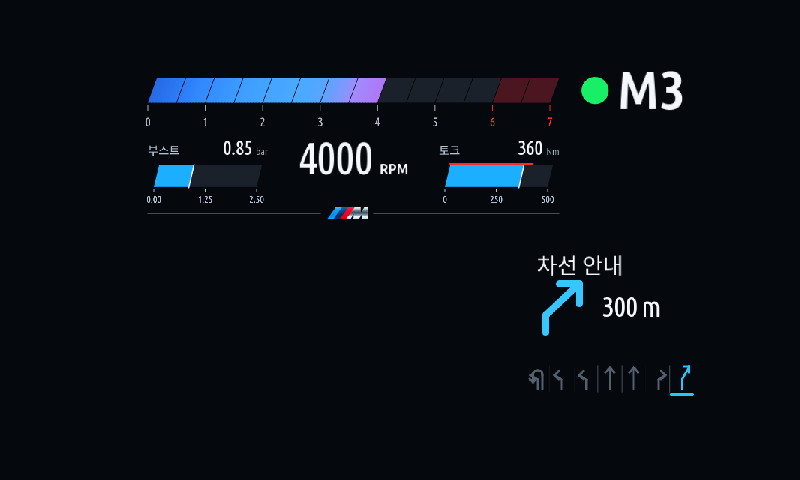
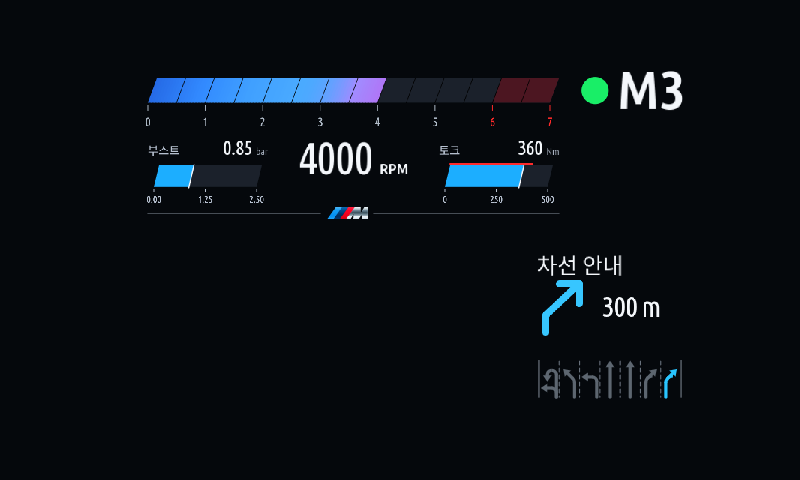
Release Cluster Redline 1.2.4: crisp fixed-size HUD lane guidance
Redraw HUD lane guidance like stock lane boards: fixed-size lanes with
dashed dividers and solid outer edges, arrows with filled heads made of
straight lines, single-pass arcs and triangles. Arrow size no longer
depends on the lane count; a U-turn sharing a lane with the same-side
turn is drawn above it.

Paint the lane row directly at its HUD size (drawSized) instead of
resampling the 240x72 tile with nearest-neighbour, which dropped pixel
rows/columns and broke thin strokes. Lane data, colours, freshness and
positions are unchanged. Refresh the two HUD lane screenshots.

Validation: new lane-draw-sized test (fails on 1.2.3 lane drawing),
lane-render, render-optimization, blit-scaled and the Store package test
pass against the built 1.2.4 package; 3000 random lane sets at 20-200%
scale. The 4 suites that already fail in this environment are unchanged.
Real-vehicle HUD check pending.

Claude-Session: https://claude.ai/code/session_01LR6i2TaKByy8pUNu1Vx1YG

Changed region(s): [[0.6562, 0.75, 0.875, 0.8438]]

diff --git a/apps/cluster_redline/lane-draw.js b/apps/cluster_redline/lane-draw.js
@@ -1,28 +1,79 @@
 'use strict';
 const {Canvas}=require('./kit/canvas');
-const W=240,H=72;
-function arrow(cv,d,cx,color){
- const left=/LEFT/.test(d),right=/RIGHT/.test(d),sign=left?-1:1;
- const line=p=>cv.polyline(p,3,color);
- if(d==='STRAIGHT_ON'){line([[cx,49],[cx,18]]);line([[cx-6,25],[cx,18],[cx+6,25]]);}
- else if(/UTURN/.test(d)){const u=left?1:-1,pts=[[cx+u*7,49],[cx+u*7,29]];for(let i=1;i<=12;i++){const a=-Math.PI*i/12;pts.push([cx+u*7*Math.cos(a),29+7*Math.sin(a)]);}pts.push([cx-u*7,39]);line(pts);line([[cx-u*7-5,34],[cx-u*7,40],[cx-u*7+5,34]]);}
- else if(left||right){
-  const slight=/SLIGHT/.test(d),endY=slight?17:29;
-  line([[cx,49],[cx,35],[cx+sign*10,endY]]);
-  line(slight?[[cx+sign*3,endY],[cx+sign*10,endY],[cx+sign*10,endY+8]]:[[cx+sign*4,endY-6],[cx+sign*10,endY],[cx+sign*4,endY+6]]);
- }
+// HUD lane guidance in the style of stock lane boards: fixed-size lanes with
+// dashed dividers, solid outer edges and arrows with filled heads. Glyphs never
+// shrink when more lanes are shown, and drawSized() paints directly at the HUD
+// pixel size so the image is not resampled (resampling broke thin strokes).
+// Arrows use only straight lines, single-pass arcs and filled triangles; a
+// many-segment polyline blends its overlapping joints and looks jagged.
+const W=240,H=72,CELL=29,BOTTOM=60,TOP=8,SW=4.6,HB=12.5,HL=9.5,PAD=2;
+const DIM='#5d6670',OTHER='#3f4750',LINE='#68717c';
+const D2R=Math.PI/180;
+const dir=a=>[Math.sin(a*D2R),-Math.cos(a*D2R)];        // heading, degrees clockwise from up
+// Arrow geometry in local units: trunk at x=0, lane base at y=BOTTOM.
+// paired: this lane also has the U-turn and 90-degree turn to the same side;
+// the turn bends lower and the U-turn tail is shorter so both stay readable.
+function glyph(d,paired){
+ const parts=[];let x=0,y=BOTTOM,heading=0;
+ const straight=len=>{const v=dir(heading),nx=x+v[0]*len,ny=y+v[1]*len;parts.push({t:'line',a:[x,y],b:[nx,ny]});x=nx;y=ny;};
+ const turn=(deg,r)=>{                                  // deg>0 clockwise, centre-line radius r
+  const s=Math.sign(deg),v=dir(heading+s*90),cx=x+v[0]*r,cy=y+v[1]*r,from=heading-s*90,to=from+deg;
+  parts.push({t:'arc',c:[cx,cy],r,a0:Math.min(from,to),a1:Math.max(from,to)});
+  const p=dir(to);x=cx+p[0]*r;y=cy+p[1]*r;heading+=deg;
+ };
+ const head=()=>{const v=dir(heading),n=[-v[1],v[0]],tip=[x+v[0]*HL,y+v[1]*HL];parts.push({t:'tri',p:[[x+n[0]*HB/2,y+n[1]*HB/2],[x-n[0]*HB/2,y-n[1]*HB/2],tip]});};
+ const s=/LEFT/.test(d)?-1:1;
+ if(d==='STRAIGHT_ON'){straight(BOTTOM-TOP-HL);}
+ else if(/^SLIGHT_/.test(d)){straight(20);turn(s*45,10);straight(9);}
+ else if(/^HARD_/.test(d)){straight(22);turn(s*135,6.5);straight(5);}
+ else if(/^UTURN_/.test(d)){straight(32);turn(s*180,6.5);straight(paired?0.5:4);}
+ else if(d==='LEFT'||d==='RIGHT'){straight(paired?6:22);turn(s*90,7);straight(6);}
+ else return null;
+ head();return parts;
 }
-function draw(state){
- const cv=new Canvas(W,H);cv.clear([0,0,0,0]);
+function bounds(parts){
+ let lo=Infinity,hi=-Infinity;const add=(px,pad)=>{lo=Math.min(lo,px-pad);hi=Math.max(hi,px+pad);};
+ parts.forEach(p=>{
+  if(p.t==='line'){add(p.a[0],SW/2);add(p.b[0],SW/2);}
+  else if(p.t==='tri')p.p.forEach(q=>add(q[0],0.5));
+  else for(let a=p.a0;a<=p.a1;a+=5)add(p.c[0]+Math.sin(a*D2R)*p.r,SW/2);
+ });return [lo,hi];
+}
+function paint(cv,parts,map,k,width,color){
+ parts.forEach(p=>{
+  if(p.t==='line'){const a=map(p.a),b=map(p.b);cv.line(a[0],a[1],b[0],b[1],width*k,color);}
+  else if(p.t==='tri')cv.triangle(p.p.map(map),color);
+  else{const c=map(p.c),r=p.r*k,hw=width*k/2;
+   // Split arcs that cross 12 o'clock so a0<a1 stays within one turn.
+   const spans=p.a0<0?[[p.a0+360,360],[0,p.a1]]:p.a1>360?[[p.a0,360],[0,p.a1-360]]:[[p.a0,p.a1]];
+   spans.forEach(s=>{if(s[1]>s[0])cv.arc(c[0],c[1],r-hw,r+hw,s[0],s[1],color);});}
+ });
+}
+function drawSized(state,w,h){
+ const s=(w||W)/W,cv=new Canvas(Math.max(1,Math.round(w||W)),Math.max(1,Math.round(h||H*s)));cv.clear([0,0,0,0]);
  if(!state||!state.visible||!Array.isArray(state.lanes)||!state.lanes.length)return cv;
- const cell=W/state.lanes.length,selected=state.color==='gray'?'#929aa3':state.color==='white'?'#f2f4f8':'#29c5ff';
- state.lanes.forEach((lane,i)=>{
-  const x=Math.round(cell*(i+0.5));
-  if(lane.highlighted)cv.polyline([[cell*i+2,57],[cell*(i+1)-2,57]],4,selected);
-  if(i)cv.polyline([[cell*i,16],[cell*i,54]],1,'#4c5664');
-  lane.other.forEach(d=>arrow(cv,d,x,'#55606e'));
-  lane.directions.forEach(d=>arrow(cv,d,x,lane.highlighted?selected:'#75808e'));
-  if(lane.blocked){cv.polyline([[x-6,27],[x+6,43]],3,'#75808e');cv.polyline([[x+6,27],[x-6,43]],3,'#75808e');}
- });return cv;
+ const lanes=state.lanes.slice(0,Math.floor(W/CELL)),n=lanes.length,left=(W-CELL*n)/2;
+ const selected=state.color==='gray'?'#a3abb4':state.color==='white'?'#f2f4f8':'#29c5ff';
+ const vline=(x,y0,y1,width)=>cv.line(x*s,y0*s,x*s,y1*s,width*s,LINE);
+ // Solid outer edges, dashed lane dividers.
+ vline(left,TOP,BOTTOM,1.8);vline(left+CELL*n,TOP,BOTTOM,1.8);
+ for(let i=1;i<n;i++)for(let y=TOP+1;y<BOTTOM;y+=10)vline(left+CELL*i,y,Math.min(BOTTOM,y+5),1.6);
+ lanes.forEach((lane,i)=>{
+  const cx=left+CELL*(i+0.5),on=lane.highlighted;
+  const list=lane.other.map(d=>({d,color:OTHER})).concat(lane.directions.map(d=>({d,color:on?selected:DIM})));
+  const all=lane.directions.concat(lane.other),side=d=>(d.match(/LEFT|RIGHT/)||[''])[0],paired=d=>(d==='LEFT'||d==='RIGHT'||/^UTURN_/.test(d))&&all.includes(side(d))&&all.includes('UTURN_'+side(d));
+  const shapes=list.map(e=>Object.assign(e,{parts:glyph(e.d,paired(e.d))})).filter(e=>e.parts);
+  if(shapes.length){
+   // One transform per lane: centre the combined glyph; shrink only a lane whose
+   // combined directions are wider than its cell, never because of the lane count.
+   let lo=0,hi=0;shapes.forEach(e=>{const b=bounds(e.parts);lo=Math.min(lo,b[0]);hi=Math.max(hi,b[1]);});
+   const k=Math.min(1,(CELL-2*PAD)/(hi-lo)),x0=cx-(lo+hi)/2*k;
+   const map=p=>[(x0+p[0]*k)*s,(BOTTOM+(p[1]-BOTTOM)*k)*s];
+   shapes.forEach(e=>paint(cv,e.parts,map,k*s,SW,e.color));
+  }
+  if(lane.blocked){const r=6,y=(TOP+BOTTOM)/2;cv.line((cx-r)*s,(y-r)*s,(cx+r)*s,(y+r)*s,3.4*s,DIM);cv.line((cx+r)*s,(y-r)*s,(cx-r)*s,(y+r)*s,3.4*s,DIM);}
+ });
+ return cv;
 }
-module.exports={W,H,draw};
+function draw(state){return drawSized(state,W,H);}
+module.exports={W,H,draw,drawSized};

diff --git a/tests/cluster_redline/lane-draw-sized.test.js b/tests/cluster_redline/lane-draw-sized.test.js
@@ -1,0 +1,17 @@
+'use strict';
+// HUD lanes are painted at their final size and keep one arrow size for any lane count.
+const assert=require('assert'),path=require('path'),root=path.join(path.resolve(process.argv[2]),'source/javascript');
+const LANE=require(root+'/lane-draw'),D=require(root+'/display-config'),{settings}=require('../../apps/cluster_redline/policy');
+const lane=(d,hl)=>({directions:[d],other:[],highlighted:!!hl,blocked:false});
+for(const scale of [20,70,100,200]){
+ const r=D.navRect(settings({hudLanesScale:scale}),'Lanes'),im=LANE.drawSized({visible:true,lanes:[lane('STRAIGHT_ON',true)],color:'blue'},r.w,r.h);
+ assert.strictEqual(im.w,r.w);assert.strictEqual(im.h,r.h);
+}
+// Height of the highlighted (blue) straight arrow, measured in the tile.
+function blueHeight(count){
+ const lanes=Array.from({length:count},(_,i)=>lane('STRAIGHT_ON',i===0)),im=LANE.draw({visible:true,lanes,color:'blue'});let top=im.h,bottom=-1;
+ for(let y=0;y<im.h;y++)for(let x=0;x<im.w;x++){const p=(y*im.w+x)*4;if(im.d[p+3]>200&&im.d[p+2]>200&&im.d[p]<120){top=Math.min(top,y);bottom=Math.max(bottom,y);}}
+ return bottom-top;
+}
+const sizes=[1,2,4,8].map(blueHeight);assert(sizes[0]>30,'arrow is drawn');sizes.forEach(h=>assert.strictEqual(h,sizes[0],'arrow size must not depend on the lane count: '+sizes));
+console.log('PASS: lanes paint at the exact HUD rectangle for 20-200% and keep one arrow size for 1-8 lanes');

diff --git a/apps/cluster_redline/hud-compose.js b/apps/cluster_redline/hud-compose.js
@@ -11,7 +11,8 @@ function draw(state) {
     if(state.renderRpm!==false)drawWithParts(face,state,cv,placement(state.config,'hud',face),'hud');
     if(D.navAllowed(state.config,state.mode)&&state.navigation&&state.navigation.visible){
         const hasTurn=state.navigation.maneuverVisible!==false;
-        const paintNav=(id,painter,value)=>{if(cache){const key=require('./render-state').navKey(state,id);if(key)cache.navigation(id,key,painter,value,D.navRect(state.config,id));}else blitScaled(cv,painter.draw(value),D.navRect(state.config,id));};
+        // Painters with drawSized() paint at the final HUD size (1:1 copy, no resampling).
+        const paintNav=(id,base,value)=>{const r=D.navRect(state.config,id),painter=base.drawSized?{W:r.w,H:r.h,draw:v=>base.drawSized(v,r.w,r.h)}:base;if(cache){const key=require('./render-state').navKey(state,id);if(key)cache.navigation(id,key,painter,value,r);}else blitScaled(cv,painter.draw(value),r);};
         if(hasTurn&&!state.config.hudNavHidden)paintNav('Direction',nav,Object.assign({},state.navigation,{color:state.config.navColor}));
         if(!state.config.hudLanesHidden&&state.navigation.lanes&&state.navigation.lanes.visible){
             paintNav('Lanes',lanes,Object.assign({},state.navigation.lanes,{color:state.config.navColor}));

diff --git a/README.ko.md b/README.ko.md
@@ -1,6 +1,6 @@
 # iDrive 7 Jam Apps · 한국어
 
-**계기판 레드라인 1.2.3** · HUD/클러스터 두 디자인, 좌우 부가정보·M 개별 조절, 배터리·평균연비와 길안내. **아이드라이브 회로 1.0.0**, **저장공간 1.0.1**도 함께 제공합니다.
+**계기판 레드라인 1.2.4** · HUD/클러스터 두 디자인, 좌우 부가정보·M 개별 조절, 배터리·평균연비와 길안내. **아이드라이브 회로 1.0.0**, **저장공간 1.0.1**도 함께 제공합니다.
 
 [English](README.md)
 
@@ -11,7 +11,7 @@
 | 저장공간 사용 | [저장공간](apps/storage/README.ko.md) | [Storage](apps/storage/README.md) |
 | Circuit 사용 | [회로 퍼즐](apps/idrive_circuit/README.ko.md) | [Circuit](apps/idrive_circuit/README.md) |
 
-MGU Store에서 소스 **`jaimeen77-cmyk/apps`**, 브랜치 **`main`**을 추가하고 새로고침한 뒤 한국어 또는 English판을 설치하세요. 레드라인은 `cluster-render` **0.4.0 이상**이 필요합니다. 기존 설치는 Installed에서 업데이트하고 앱 상단 **v1.2.3**을 확인하세요. 한국어·영어판을 함께 설치했다면 사용하지 않는 판의 앱 실행과 자동 시작을 끕니다.
+MGU Store에서 소스 **`jaimeen77-cmyk/apps`**, 브랜치 **`main`**을 추가하고 새로고침한 뒤 한국어 또는 English판을 설치하세요. 레드라인은 `cluster-render` **0.4.0 이상**이 필요합니다. 기존 설치는 Installed에서 업데이트하고 앱 상단 **v1.2.4**을 확인하세요. 한국어·영어판을 함께 설치했다면 사용하지 않는 판의 앱 실행과 자동 시작을 끕니다.
 
 | HUD circle | HUD bar |
 |---|---|

diff --git a/README.md b/README.md
@@ -1,6 +1,6 @@
 # iDrive 7 Jam Apps
 
-**Cluster Redline 1.2.3** adds separate side metrics/M controls, two cluster/HUD designs, battery/economy readings and combined navigation. **iDrive Circuit 1.0.0** and **Storage 1.0.1** are also available.
+**Cluster Redline 1.2.4** adds separate side metrics/M controls, two cluster/HUD designs, battery/economy readings and combined navigation. **iDrive Circuit 1.0.0** and **Storage 1.0.1** are also available.
 
 [한국어](README.ko.md)
 
@@ -11,7 +11,7 @@
 | Use Storage | [Storage](apps/storage/README.md) | [저장공간](apps/storage/README.ko.md) |
 | Use Circuit | [Circuit](apps/idrive_circuit/README.md) | [회로 퍼즐](apps/idrive_circuit/README.ko.md) |
 
-Add MGU Store source **`jaimeen77-cmyk/apps`**, branch **`main`**, refresh and choose Korean or English. Redline requires **`cluster-render` 0.4.0+**. Update existing installs in Installed and check **v1.2.3** in the app. Stop and disable auto-start in an unused language edition if both are installed.
+Add MGU Store source **`jaimeen77-cmyk/apps`**, branch **`main`**, refresh and choose Korean or English. Redline requires **`cluster-render` 0.4.0+**. Update existing installs in Installed and check **v1.2.4** in the app. Stop and disable auto-start in an unused language edition if both are installed.
 
 | HUD circle | HUD bar |
 |---|---|

diff --git a/CHANGELOG.md b/CHANGELOG.md
@@ -13,6 +13,11 @@ Version history is kept here. For current usage, see [Cluster Redline](docs/CLUS
 
 ## Cluster Redline
 
+### 1.2.4
+
+- Redraw HUD lane guidance in the style of stock lane boards: fixed-size lanes with dashed dividers and solid outer edges, and arrows with filled heads built from straight lines, single-pass arcs and triangles. Arrow size no longer shrinks as the lane count grows; only a lane whose combined directions are too wide is narrowed. A U-turn sharing a lane with the same-side turn is drawn above it.
+- Paint the lane row directly at its HUD size instead of resampling a 240x72 image to the selected scale, which dropped pixel rows/columns and broke thin strokes. Lane data, recommendation colours, freshness rules and positions are unchanged.
+
 ### 1.2.3
 
 - Speed up scaled component blits used for moved/resized parts and navigation tiles: compute the source column table once per blit and copy opaque or uncovered pixels directly. Output stays bit-identical (new `blit-scaled` regression test); host measurements show about 2x faster translucent and about 7x faster opaque parts. No visual, setting or signal changes.

diff --git a/docs/CLUSTER-REDLINE.ko.md b/docs/CLUSTER-REDLINE.ko.md
@@ -1,4 +1,4 @@
-# 계기판 레드라인 1.2.3 사용 설명서
+# 계기판 레드라인 1.2.4 사용 설명서
 
 [English](CLUSTER-REDLINE.md) · [설치 안내](INSTALL.ko.md) · [전체 스크린샷](../screenshots/README.md) · [업데이트 이력](../CHANGELOG.md)
 

diff --git a/docs/CLUSTER-REDLINE.md b/docs/CLUSTER-REDLINE.md
@@ -1,4 +1,4 @@
-# Cluster Redline 1.2.3 user guide
+# Cluster Redline 1.2.4 user guide
 
 [한국어](CLUSTER-REDLINE.ko.md) · [Installation](INSTALL.md) · [All screenshots](../screenshots/README.md) · [Changelog](../CHANGELOG.md)
 

diff --git a/apps/cluster_redline/README.ko.md b/apps/cluster_redline/README.ko.md
@@ -1,4 +1,4 @@
-# 계기판 레드라인 1.2.3
+# 계기판 레드라인 1.2.4
 
 [English](README.md)
 

diff --git a/apps/cluster_redline/README.md b/apps/cluster_redline/README.md
@@ -1,4 +1,4 @@
-# Cluster Redline 1.2.3
+# Cluster Redline 1.2.4
 
 [한국어](README.ko.md)
 
